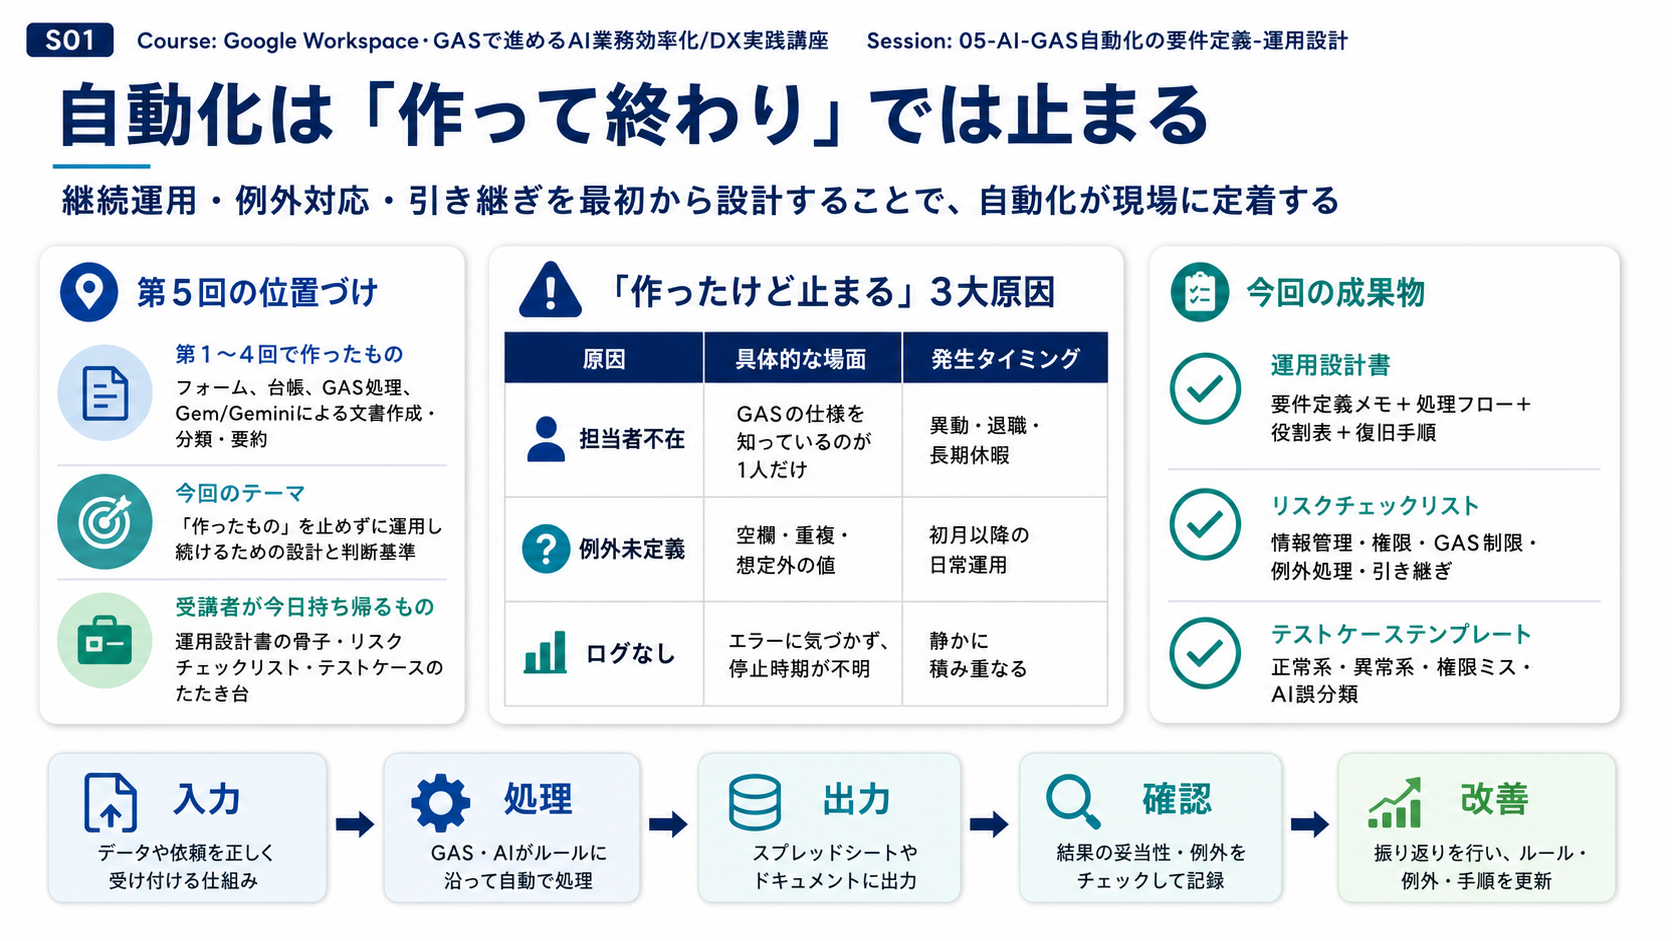
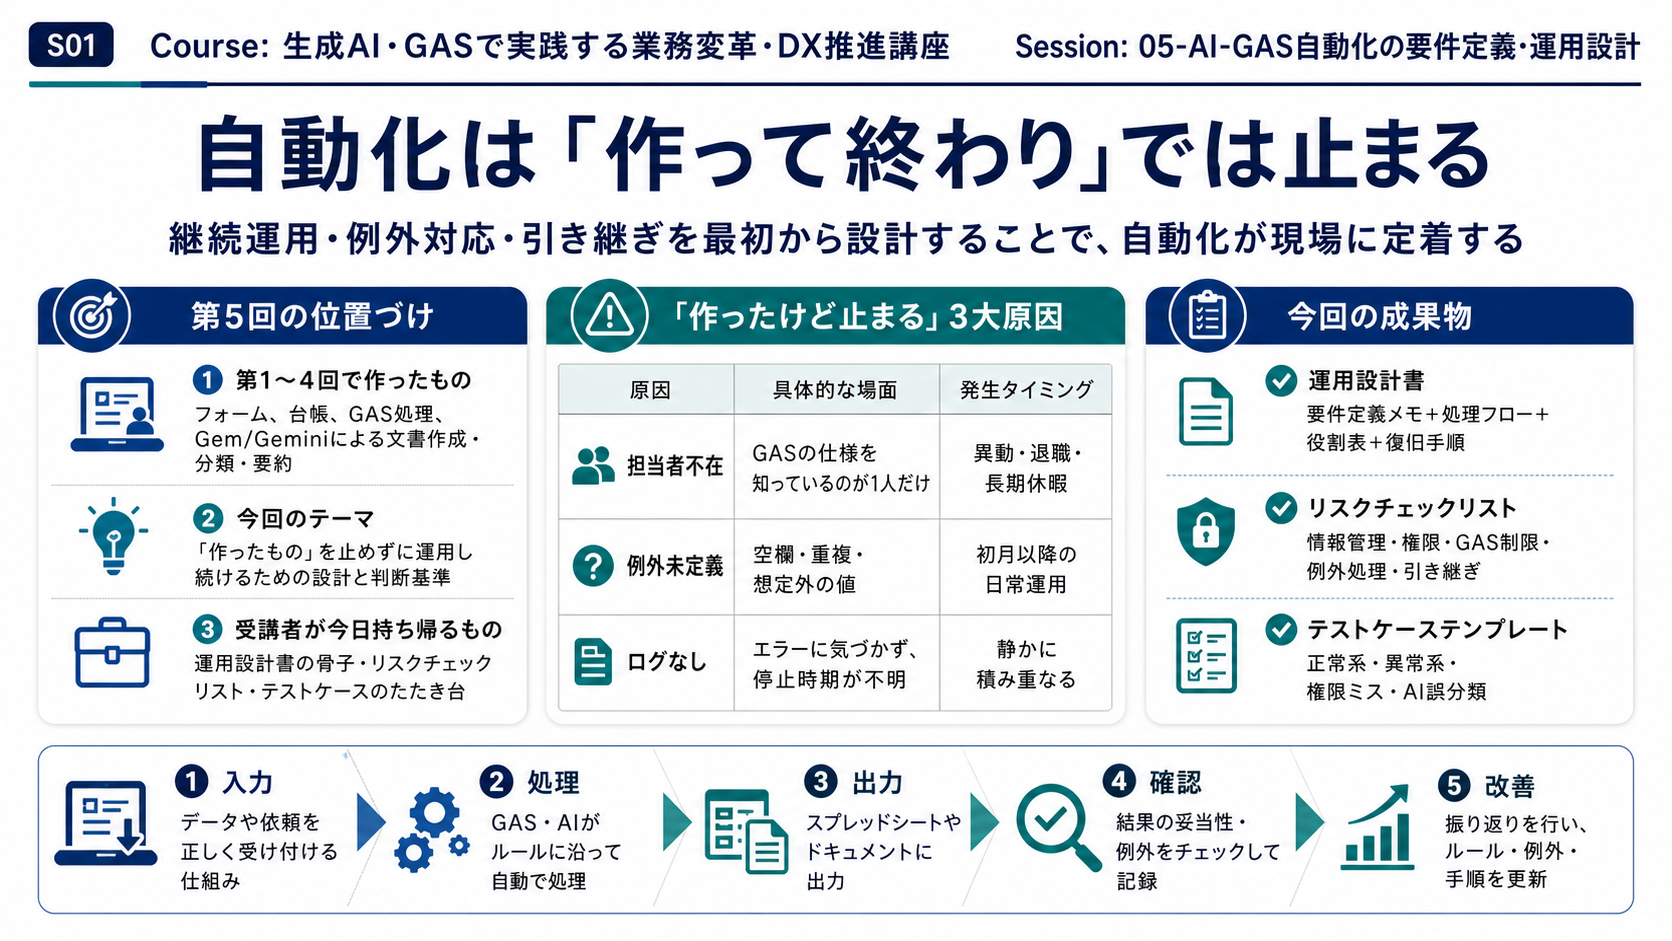
第5回の研修名画像を直す
第5回S01のCourseヘッダーをimage 2生成画像で差し替えた。
既存画像への重ね修正ではなく、完成PNGをそのまま置き換えた。
第5回Google Slidesを同じDriveフォルダで置換し、リンク一覧を更新した。

diff --git a/講座/Google Workspace・GASで進めるAI業務効率化-DX実践講座/全体/Google_Driveリンク一覧.md b/講座/Google Workspace・GASで進めるAI業務効率化-DX実践講座/全体/Google_Driveリンク一覧.md
@@ -1,6 +1,6 @@
 # Google Drive / Google Slides リンク一覧
 
-- 生成日時: 2026-06-12 14:15:05 JST
+- 生成日時: 2026-06-12 15:34:40 JST
 - 講座表示名: 生成AI・GASで実践する業務変革・DX推進講座
 - Driveルート: [AI法人研修](https://drive.google.com/drive/folders/1jaaj-bVBqOvkpS0Gat21ejFjXzTxj3Ez)
 - 講座フォルダ: [講座フォルダ](https://drive.google.com/drive/folders/1qMjpDao-nNdAExj10ZFORD9NAsKPOQT6)
@@ -12,5 +12,5 @@
 | 02 | 02-業務データ基盤の設計 | [回フォルダ](https://drive.google.com/drive/folders/1e8iM3Nscca1wNhsvREdd60hJJ_j8Bv3O) | [02-業務データ基盤の設計](https://docs.google.com/presentation/d/1RfJSRQgt8ggH1LczQE4nApDkEcnHwOGGI_i3DZaule8/edit?usp=drivesdk) | 40 | 1 | なし |
 | 03 | 03-GASによる業務プロセス自動化 | [回フォルダ](https://drive.google.com/drive/folders/1GRxpm9TrQzV6eDzymq_zD0mJ7nTdYTzu) | [03-GASによる業務プロセス自動化](https://docs.google.com/presentation/d/1cwYjyfJ9FzAUhr7fMfbaQ-sSz-ZY5Lb8BSM7XpB2FI8/edit?usp=drivesdk) | 44 | 1 | なし |
 | 04 | 04-Gem-Geminiを使った文書作成-分類-要約 | [回フォルダ](https://drive.google.com/drive/folders/1R9G06XWiA4m14O1cJgHhNTj-SUAT_Zqa) | [04-Gem-Geminiを使った文書作成-分類-要約](https://docs.google.com/presentation/d/1tnMjN4h6lfNyZIc3RKa8hAddsYd41IgCsYWQ4w3FE4U/edit?usp=drivesdk) | 40 | 1 | なし |
-| 05 | 05-AI-GAS自動化の要件定義-運用設計 | [回フォルダ](https://drive.google.com/drive/folders/1awxjo6B2laochT-BswEZ3MuvpkfToBdT) | [05-AI-GAS自動化の要件定義-運用設計](https://docs.google.com/presentation/d/1ZMhi7CMfqPFY5SG81QTcTKj-A6mrVt-pGLJvmHNhTtY/edit?usp=drivesdk) | 40 | 1 | なし |
+| 05 | 05-AI-GAS自動化の要件定義-運用設計 | [回フォルダ](https://drive.google.com/drive/folders/1awxjo6B2laochT-BswEZ3MuvpkfToBdT) | [05-AI-GAS自動化の要件定義-運用設計](https://docs.google.com/presentation/d/1nhYCEVuAdH1Bv1dzyASOqlz7fyeWv1a4DBYVvBPYKbU/edit?usp=drivesdk) | 40 | 1 | なし |
 | 06 | 06-AI業務効率化プロジェクト提案書の作成 | [回フォルダ](https://drive.google.com/drive/folders/11vCEnIboC4C9qtc3WIw6mrpQqYMLqXnJ) | [06-AI業務効率化プロジェクト提案書の作成](https://docs.google.com/presentation/d/1OqHj6iEYoOY6Q8SE7kK3qLaoLNsGOEeqWYtqX1kO55E/edit?usp=drivesdk) | 40 | 1 | なし |